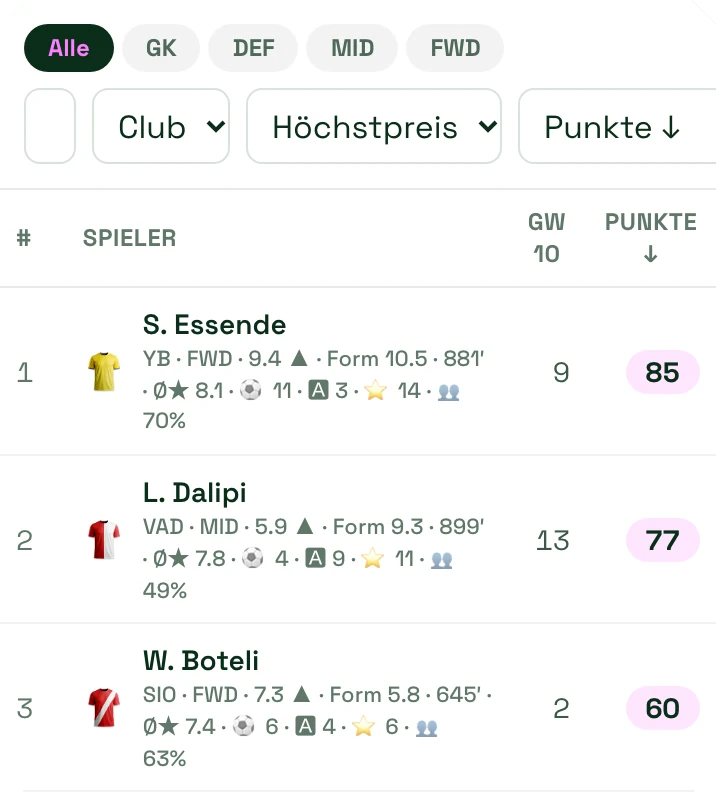
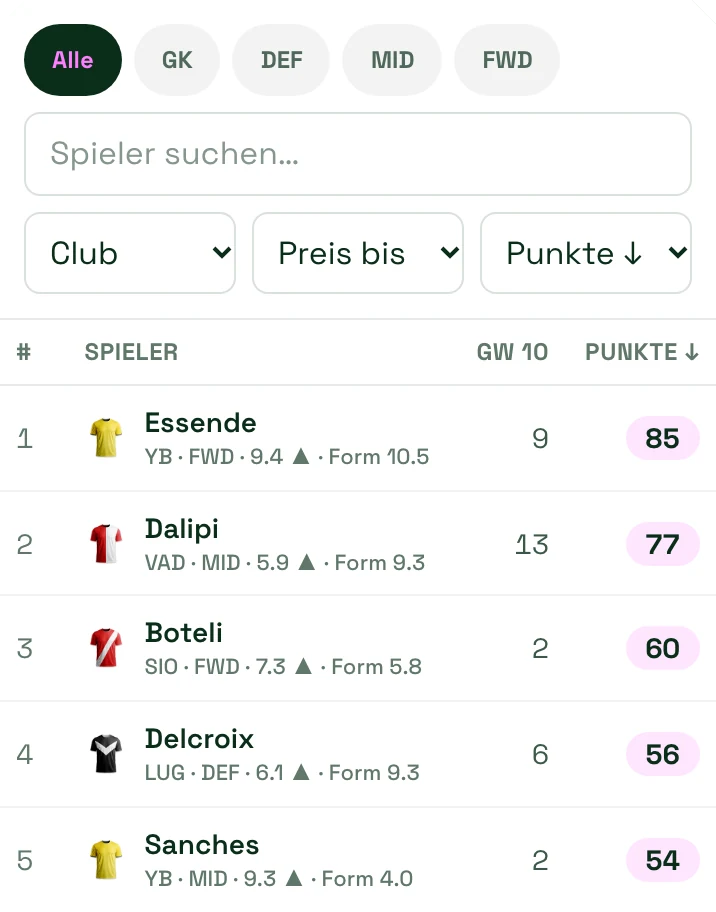
Startseite: Screenshots mit Nachnamen erneuert
Neu aufgenommen nach der Umstellung auf Nachnamen ("Sanches" statt
"A. Sanches"). Die Statistikkarte zeigt dabei auch den neuen mobilen
Filterbereich und die einzeilige Spielerzeile; sie endet nach fünf
Spielern an einer Zeilengrenze. Seitenverhältnis im Layout angepasst.

diff --git a/src/app/page.tsx b/src/app/page.tsx
@@ -86,8 +86,8 @@ export default async function Home() {
             src="/startseite-stats.webp"
             alt={t.shotStats}
             breite={716}
-            hoehe={792}
-            className="z-0 w-[min(54cqw,calc(80cqh*0.904))] translate-y-[2%] -rotate-[5deg]"
+            hoehe={912}
+            className="z-0 w-[min(54cqw,calc(82cqh*0.785))] translate-y-[2%] -rotate-[5deg]"
           />
           <Bildschirm
             src="/startseite-team.webp"
